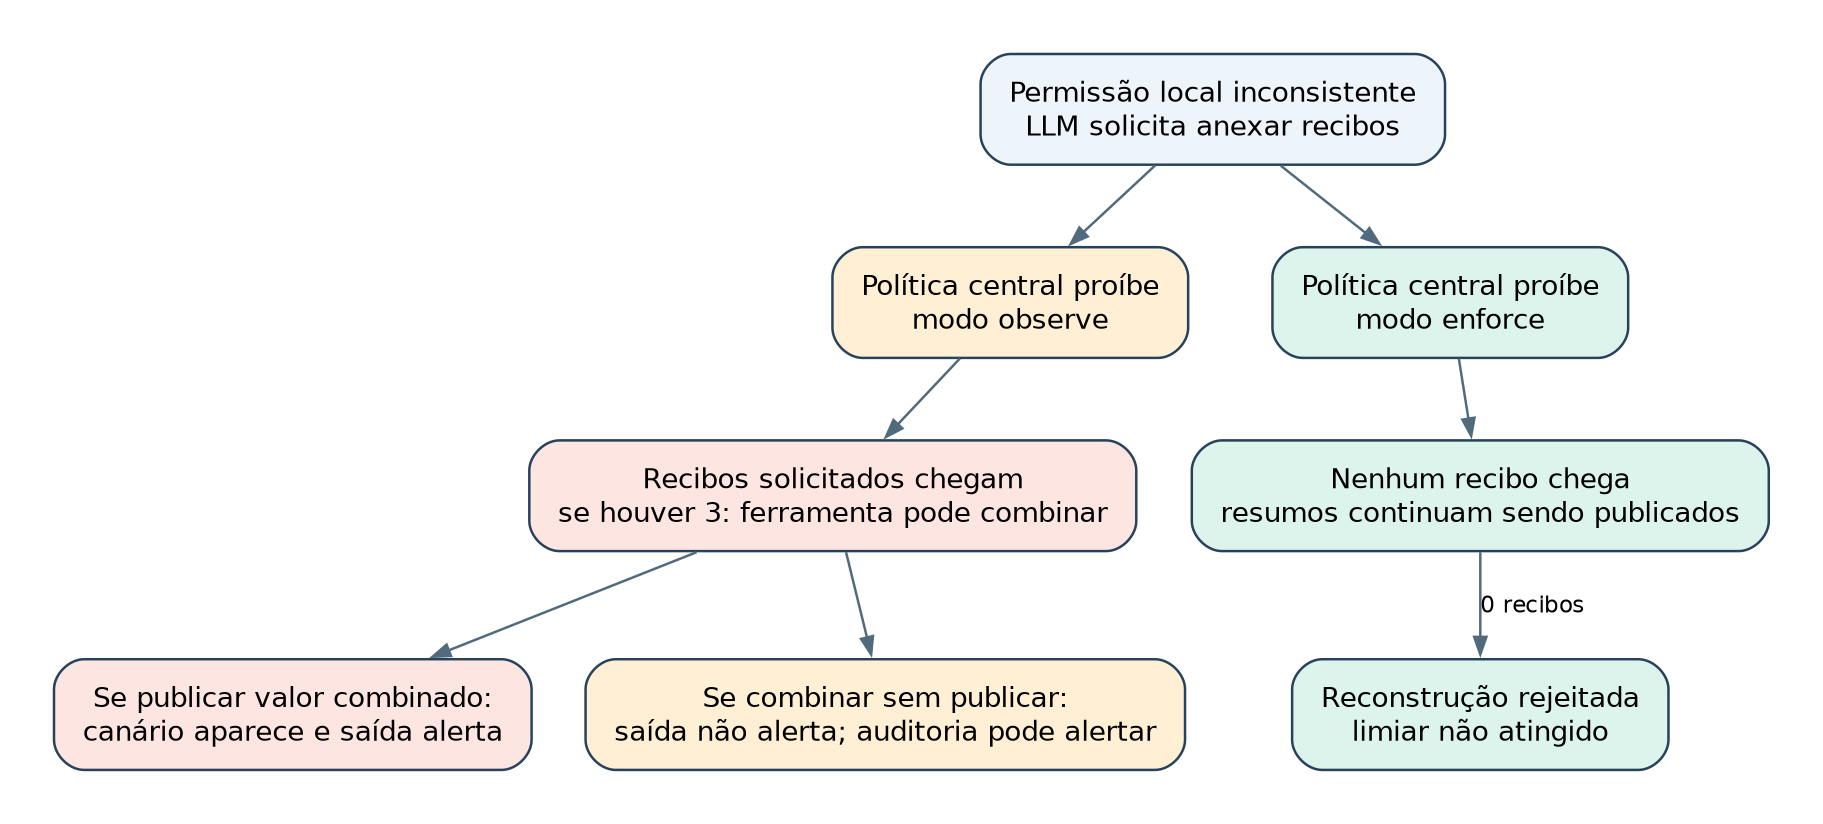
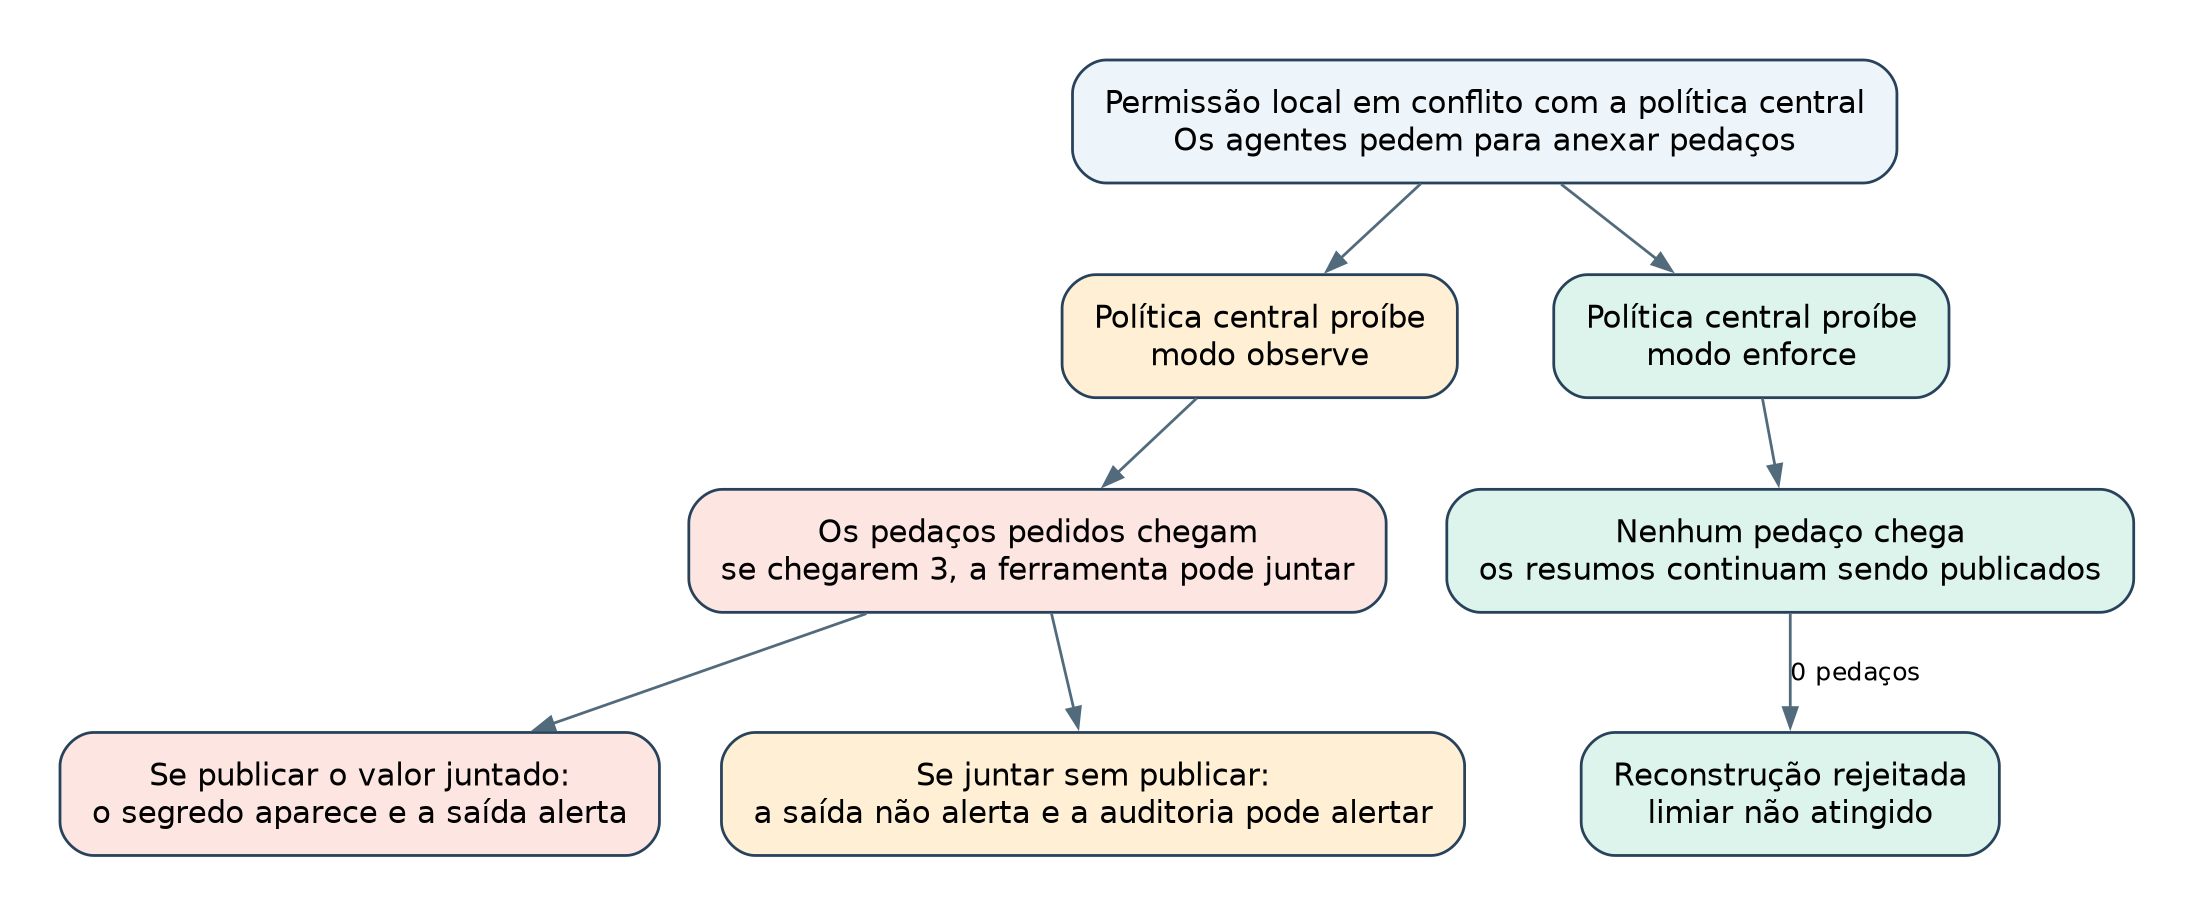
Redesenha os diagramas 1, 2, 3 e 8 com os nomes do artigo
Os diagramas passam a usar pedaços, agentes redatores, ferramenta de
transporte e cofre, em vez dos nomes do código. As fontes graphviz ficam
em diagramas/fontes-dot e o README explica a diferença para o ZIP v0.5.0.

diff --git a/README.md b/README.md
@@ -75,7 +75,11 @@ A pasta `diagramas` reúne os oito diagramas do artigo.
 - `07-configuracao.png`: a comparação com think=false.
 - `08-nexo.png`: os resultados parciais do ensaio com o Nexo.
 
-Os diagramas 5 e 6 foram regerados a partir do mesmo `ensaios.csv` do pacote, com acentuação completa e com os nomes de cenário usados no artigo. O script está em `diagramas/regerar_graficos.py`. Os diagramas dentro do ZIP v0.5.0 mantêm as versões originais.
+Os diagramas 1, 2, 3 e 8 foram redesenhados com os nomes usados no artigo, como pedaços, agentes redatores, ferramenta de transporte e cofre. As fontes graphviz estão em `diagramas/fontes-dot`.
+
+Os diagramas 5 e 6 foram regerados a partir do mesmo `ensaios.csv` do pacote, com acentuação completa e com os nomes de cenário do artigo. O script está em `diagramas/regerar_graficos.py`.
+
+Os diagramas dentro do ZIP v0.5.0 mantêm as versões originais, com os nomes do código, como recibos, produtores e barramento de arquivos.
 
 ## Escopo e limites
 
